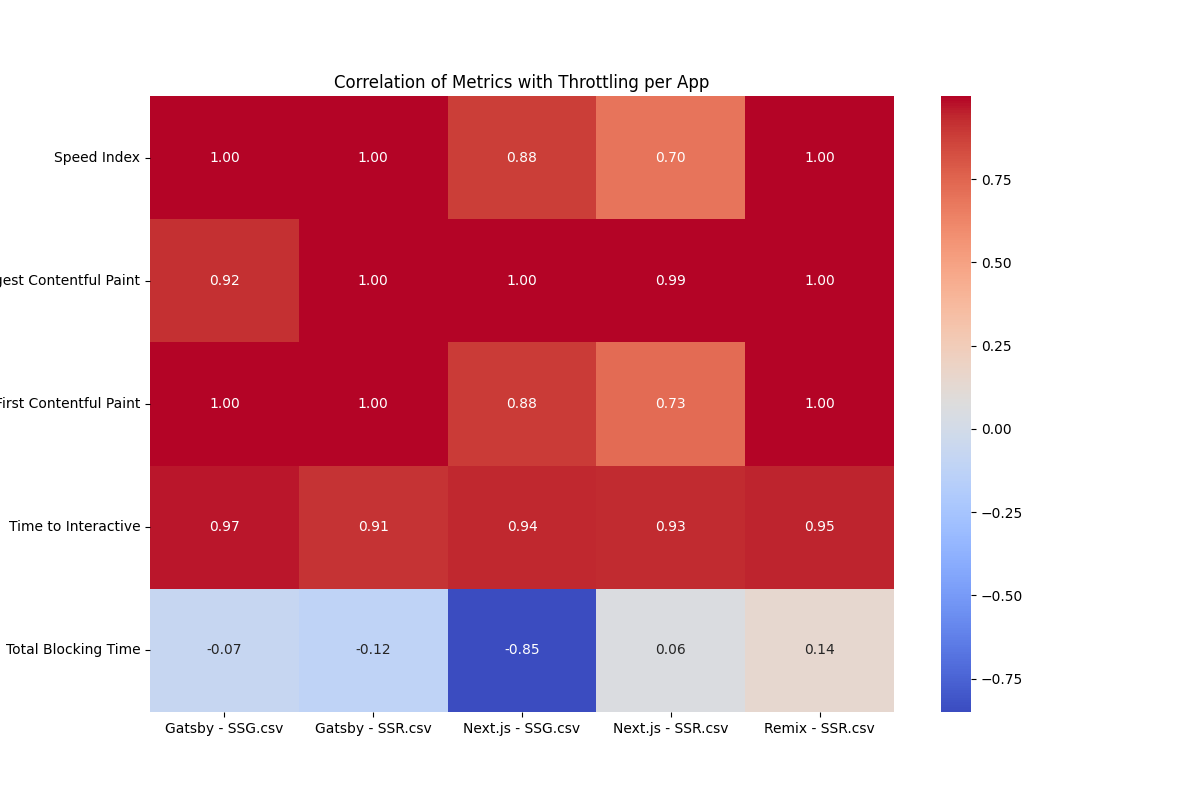
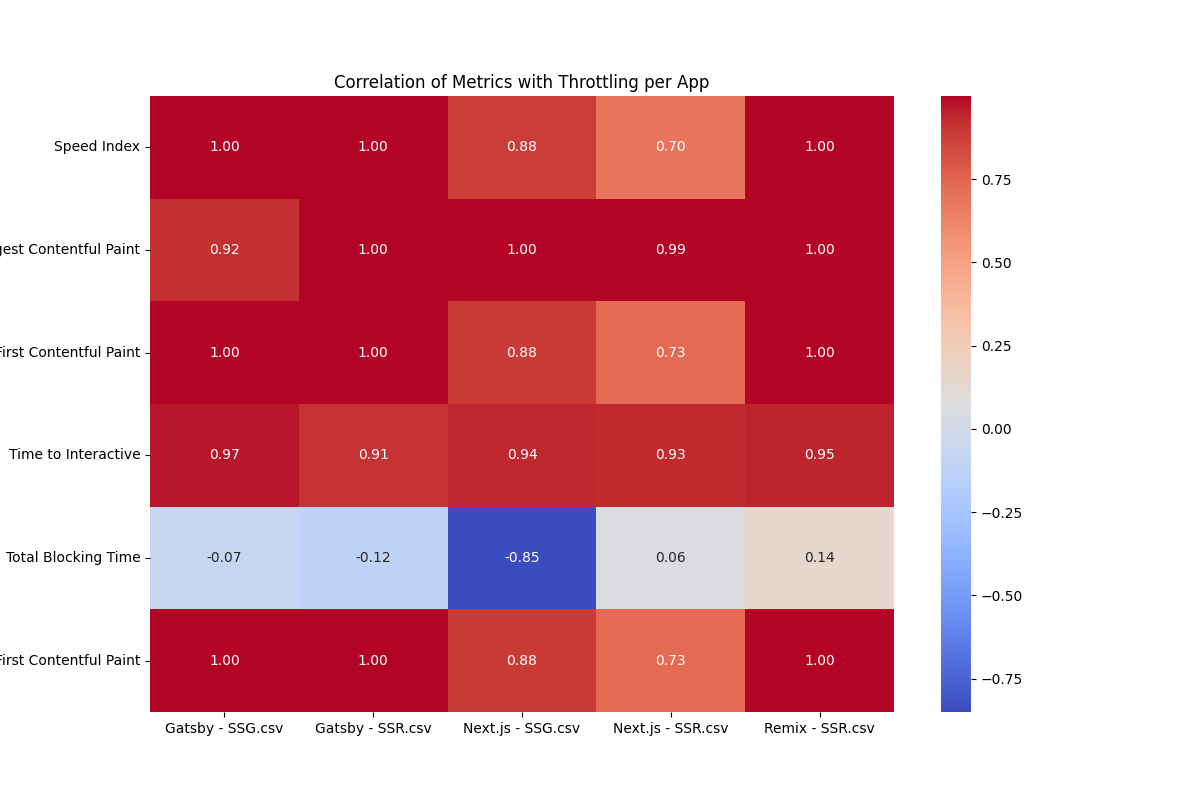
REsources study

diff --git a/script/cpuUsage.js b/script/cpuUsage.js
@@ -1,0 +1,23 @@
+const config = [
+    {
+        url: `http://localhost:9000/`,
+        appName: 'Gatsby - SSG',
+    },
+    {
+        url: `http://localhost:9001/`,
+        appName: 'Gatsby - SSR',
+    },
+    {
+        url: `http://localhost:9006/`,
+        appName: 'Next.js - SSG',
+    },
+    {
+        url: `http://localhost:9007/`,
+        appName: 'Next.js - SSR',
+    },
+    {
+        url: `http://localhost:46525/`,
+        appName: 'Remix - SSR',
+    }];
+
+    

diff --git a/script/lighthouse-throttling.js b/script/lighthouse-throttling.js
@@ -16,7 +16,6 @@ async function runLighthouse(url, chrome) {
   const options = {
     port: chrome.port,
     output: 'json',
-    disableStorageReset: true, // Wyłącza cache
     onlyCategories: ['performance'],
     throttling: {
         // These values partially align with WebPageTest's definition of "Regular 3G".

diff --git a/script/lighthouse-script.js b/script/lighthouse-script.js
@@ -14,7 +14,6 @@ async function runLighthouse(url, chrome) {
   const options = {
     port: chrome.port,
     output: 'json',
-    disableStorageReset: true, // Wyłącza cache
     onlyCategories: ['performance'],
   };
 

diff --git a/script/chartsSeaBorn.py b/script/chartsSeaBorn.py
@@ -5,11 +5,13 @@ import os
 import numpy as np
 import sys
 # List of CSV files and their names
-csv_files = ['Cumulative_Layout_Shift.csv', 'Largest_Contentful_Paint.csv', 'Time_to_Interactive.csv', 'Total_Blocking_Time.csv', 'Speed_Index.csv']
-titles = ['Cumulative Layout Shift', 'Largest Contentful Paint', 'Time to Interactive', 'Total Blocking Time', 'Speed Index']
+#csv_files = ['Cumulative_Layout_Shift.csv', 'Largest_Contentful_Paint.csv', 'Time_to_Interactive.csv', 'Total_Blocking_Time.csv', 'Speed_Index.csv', 'First_Contentful_Paint.csv']
+#titles = ['Cumulative Layout Shift', 'Largest Contentful Paint', 'Time to Interactive', 'Total Blocking Time', 'Speed Index', 'First Contentful Paint']
+csv_files = ['HeapSize.csv', 'RAM.csv']
+titles = ['Heap Size', 'RAM']
 #input_path = 'results/dataHomepage'
 #output_path = 'charts/dataHomepage'
-
+isSizeMeasure = True
 input_path = sys.argv[1]
 output_path = sys.argv[2]
 
@@ -23,9 +25,9 @@ data = {}
 # Load the data from CSV files
 for i, file in enumerate(csv_files):
     df = pd.read_csv(os.path.join(input_path, file))
-    if titles[i] != 'Total Blocking Time':
-        # Convert milliseconds to seconds for all except Total Blocking Time
-        df = df / 1000
+    # if titles[i] != 'Total Blocking Time':
+    #     # Convert milliseconds to seconds for all except Total Blocking Time
+    #     df = df / 1000
     data[titles[i]] = df
 
 # Function to create bar plot with error bars and save it
@@ -40,7 +42,7 @@ def plot_with_error_bars(data, title):
     sns.boxplot(data, palette='Spectral')
     # plt.bar(x, means.values, yerr=[mins.values, maxs.values], capsize=5)
     plt.title(title)
-    plt.ylabel('Czas (sekundy)' if title != 'Total Blocking Time' else 'Czas (milisekundy)')
+    plt.ylabel('Rozmiar (MB)' if isSizeMeasure else 'Czas (sekundy)' if title != 'Total Blocking Time' else 'Czas (milisekundy)')
     plt.xlabel('')
     plt.xticks(x, means.index, rotation=45)  # set x tick labels
     plt.tight_layout()

diff --git a/script/colorLatexTab.py b/script/colorLatexTab.py
@@ -1,0 +1,38 @@
+import re
+import matplotlib.pyplot as plt
+columns = [1, 2, 3, 4, 5]
+colormap = plt.get_cmap('RdYlBu')
+colormap_start, colormap_end = 0.2, 0.83
+data = '''
+Speed Index & 0.9998 & 0.9997 & 0.8794 & 0.6958 & 0.9998 \\
+Largest Contentful Paint & 0.9185 & 0.9999 & 0.9964 & 0.9929 & 0.9999 \\
+First Contentful Paint & 0.9998 & 0.9997 & 0.8848 & 0.7254 & 0.9998 \\
+Time to Interactive & 0.9699 & 0.9089 & 0.9400 & 0.9320 & 0.9491 \\
+Total Blocking Time & -0.0705 & -0.1187 & -0.8502 & 0.0597 & 0.1425 \\
+First Contentful Paint &0.9997 & 0.9996 & 0.8847 & 0.7253 & 0.9998\\
+'''
+minimum = 1
+maximum = -1
+
+for column in columns:
+    fraction_to_hex = lambda f: '{:02x}{:02x}{:02x}'.format(*[int(255 * c) for c in colormap(f)[:3]]).upper()
+    matrix = [[i.strip() for i in re.sub(r'\\ *$', r'', line).split('&')] for line in data.strip().split('\n')]
+    coldata = [row[column] for row in matrix]
+    coldata = [float(re.search(r'[0-9.\-\+]+', d).group(0)) for d in coldata]
+    # coldata = [(d - min(coldata)) / (max(coldata) - min(coldata)) for d in coldata] # normalize to 0-1
+    coldata = [(d - minimum) / (maximum - minimum) for d in coldata] # normalize to --1
+    coldata = [d * (colormap_end - colormap_start) + colormap_start for d in coldata] # normalize to colormap_start-colormap_end
+    coldata = [fraction_to_hex(d) for d in coldata ]
+
+    new_data = ''
+    for i, row in enumerate(matrix):
+        for j, d in enumerate(row):
+            if j == column: new_data += f'\\cellcolor[HTML]{{{coldata[i]}}}'
+            if j < len(row) - 1: new_data += f'{d} & '
+            else: new_data += f' {d} \\\\ \n'
+    data = new_data
+
+for line in new_data.split('\n'):
+    line = line[:-2]
+    while line.endswith(' \\'): line = line[:-2]
+    if line.strip(): print(line + ' \\\\')

diff --git a/script/correlation_analysis.py b/script/correlation_analysis.py
@@ -22,7 +22,8 @@ metrics = [
     'Largest Contentful Paint',
     'First Contentful Paint',
     'Time to Interactive',
-    'Total Blocking Time'
+    'Total Blocking Time',
+    'First Contentful Paint'
 ]
 
 # Create a dictionary to store correlation results for each app
